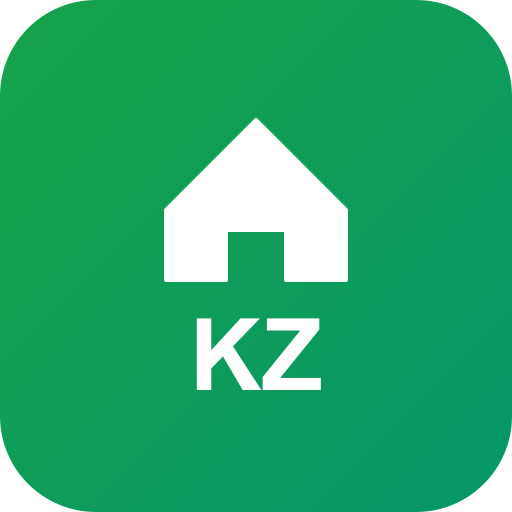
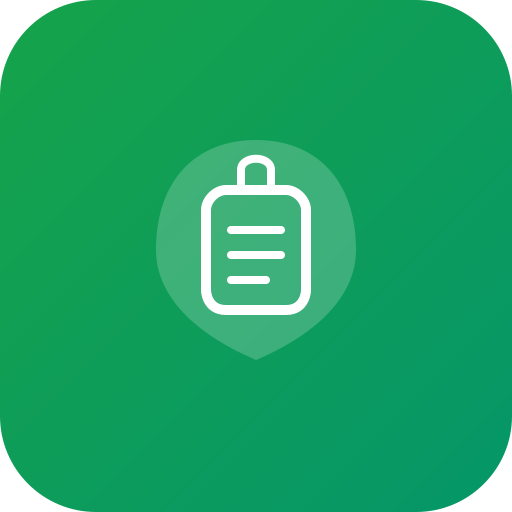
Rebrand: nova zelena ikona, PNG ikone, preimenovani svi tekstovi u smočnicu
- SVG ikona: zamijenjen "KZ" tekst ikonom liste/bilježnice
- Generirane icon-192.png i icon-512.png za mobilne uređaje
- Apple touch icon sada koristi PNG umjesto SVG
- Svi vidljivi tekstovi "inventar/inventara" zamijenjeni sa "smočnica/smočnice"
- SW cache v4

Made-with: Cursor

Changed region(s): [[0.2812, 0.2188, 0.7188, 0.7812]]

diff --git a/public/index.html b/public/index.html
@@ -11,7 +11,7 @@
     <meta name="apple-mobile-web-app-capable" content="yes">
     <meta name="apple-mobile-web-app-status-bar-style" content="black-translucent">
     <meta name="apple-mobile-web-app-title" content="Smočnica">
-    <link rel="apple-touch-icon" href="/icon.svg">
+    <link rel="apple-touch-icon" href="/icon-192.png">
     <meta name="description" content="Tvoja digitalna smočnica i kuharica">
 
     <link rel="stylesheet" href="style.css">
@@ -169,7 +169,7 @@
                             <svg width="20" height="20" viewBox="0 0 24 24" fill="none" stroke="currentColor" stroke-width="2" stroke-linecap="round" stroke-linejoin="round">
                                 <path d="M12 5v14"/><path d="M5 12h14"/>
                             </svg>
-                            Dodaj u inventar
+                            Dodaj u smočnicu
                         </button>
                         <button class="btn-quick btn-quick-alt" id="btn-quick-kupovina">
                             <svg width="20" height="20" viewBox="0 0 24 24" fill="none" stroke="currentColor" stroke-width="2" stroke-linecap="round" stroke-linejoin="round">
@@ -189,7 +189,7 @@
                                 <svg width="18" height="18" viewBox="0 0 24 24" fill="none" stroke="currentColor" stroke-width="2" stroke-linecap="round" stroke-linejoin="round">
                                     <circle cx="11" cy="11" r="8"/><path d="m21 21-4.3-4.3"/>
                                 </svg>
-                                <input type="text" id="search-inventar" placeholder="Pretraži inventar..." autocomplete="off">
+                                <input type="text" id="search-inventar" placeholder="Pretraži smočnicu..." autocomplete="off">
                             </div>
                             <button class="btn-primary" id="btn-add-inventar">
                                 <svg width="18" height="18" viewBox="0 0 24 24" fill="none" stroke="currentColor" stroke-width="2" stroke-linecap="round" stroke-linejoin="round">
@@ -240,7 +240,7 @@
                     </div>
 
                     <div class="shopping-actions" id="shopping-actions" style="display:none;">
-                        <button class="btn-success" id="btn-kupljeno-sve">Kupljeno → inventar</button>
+                        <button class="btn-success" id="btn-kupljeno-sve">Kupljeno → smočnica</button>
                         <button class="btn-danger" id="btn-obrisi-kupljeno">Obriši označeno</button>
                     </div>
 

diff --git a/public/app.js b/public/app.js
@@ -559,7 +559,7 @@ function bindSearchResultActions() {
     });
     inventarSearchResults.querySelectorAll('.btn-icon.delete').forEach(btn => {
         btn.addEventListener('click', async () => {
-            if (!confirm('Obrisati ovu namirnicu iz inventara?')) return;
+            if (!confirm('Obrisati ovu namirnicu iz smočnice?')) return;
             try {
                 await api('DELETE', `/inventory/${btn.dataset.id}`);
                 inventory = inventory.filter(i => i.id != btn.dataset.id);
@@ -616,7 +616,7 @@ function bindInventoryActions() {
     });
     inventarList.querySelectorAll('.btn-icon.delete').forEach(btn => {
         btn.addEventListener('click', async () => {
-            if (!confirm('Obrisati ovu namirnicu iz inventara?')) return;
+            if (!confirm('Obrisati ovu namirnicu iz smočnice?')) return;
             try {
                 await api('DELETE', `/inventory/${btn.dataset.id}`);
                 inventory = inventory.filter(i => i.id != btn.dataset.id);
@@ -750,7 +750,7 @@ searchKupovina.addEventListener('input', renderShoppingList);
 //   MODAL: Add / Edit
 // =====================
 function openAddModal(target) {
-    modalTitle.textContent = target === 'inventar' ? 'Dodaj u inventar' : 'Dodaj na listu';
+    modalTitle.textContent = target === 'inventar' ? 'Dodaj u smočnicu' : 'Dodaj na listu';
     formBtnText.textContent = 'Dodaj';
     itemForm.reset();
     itemId.value = '';
@@ -872,7 +872,7 @@ itemName.addEventListener('blur', () => {
 function checkInventoryNotice(name) {
     const match = inventory.find(i => i.name.toLowerCase() === name.toLowerCase());
     if (match) {
-        inventoryNotice.textContent = `Već imate: ${formatQty(match.quantity)} ${match.unit} u inventaru`;
+        inventoryNotice.textContent = `Već imate: ${formatQty(match.quantity)} ${match.unit} u smočnici`;
         inventoryNotice.className = 'inventory-notice has-stock';
         inventoryNotice.style.display = 'block';
     } else {
@@ -1239,7 +1239,7 @@ async function generateRecipe() {
 function renderRecipe(recipe) {
     const ingredientsList = recipe.ingredients.map(ing => {
         const fromInv = ing.from_inventory
-            ? '<span class="ing-tag ing-have">iz inventara</span>'
+            ? '<span class="ing-tag ing-have">iz smočnice</span>'
             : '<span class="ing-tag ing-extra">dodatno</span>';
         return `<li>${escapeHtml(ing.amount)} ${escapeHtml(ing.name)} ${fromInv}</li>`;
     }).join('');

diff --git a/public/sw.js b/public/sw.js
@@ -1,10 +1,12 @@
-const CACHE_NAME = 'smocnica-v2';
+const CACHE_NAME = 'smocnica-v4';
 const STATIC_ASSETS = [
     '/',
     '/index.html',
     '/style.css',
     '/app.js',
     '/icon.svg',
+    '/icon-192.png',
+    '/icon-512.png',
     '/manifest.json'
 ];
 
